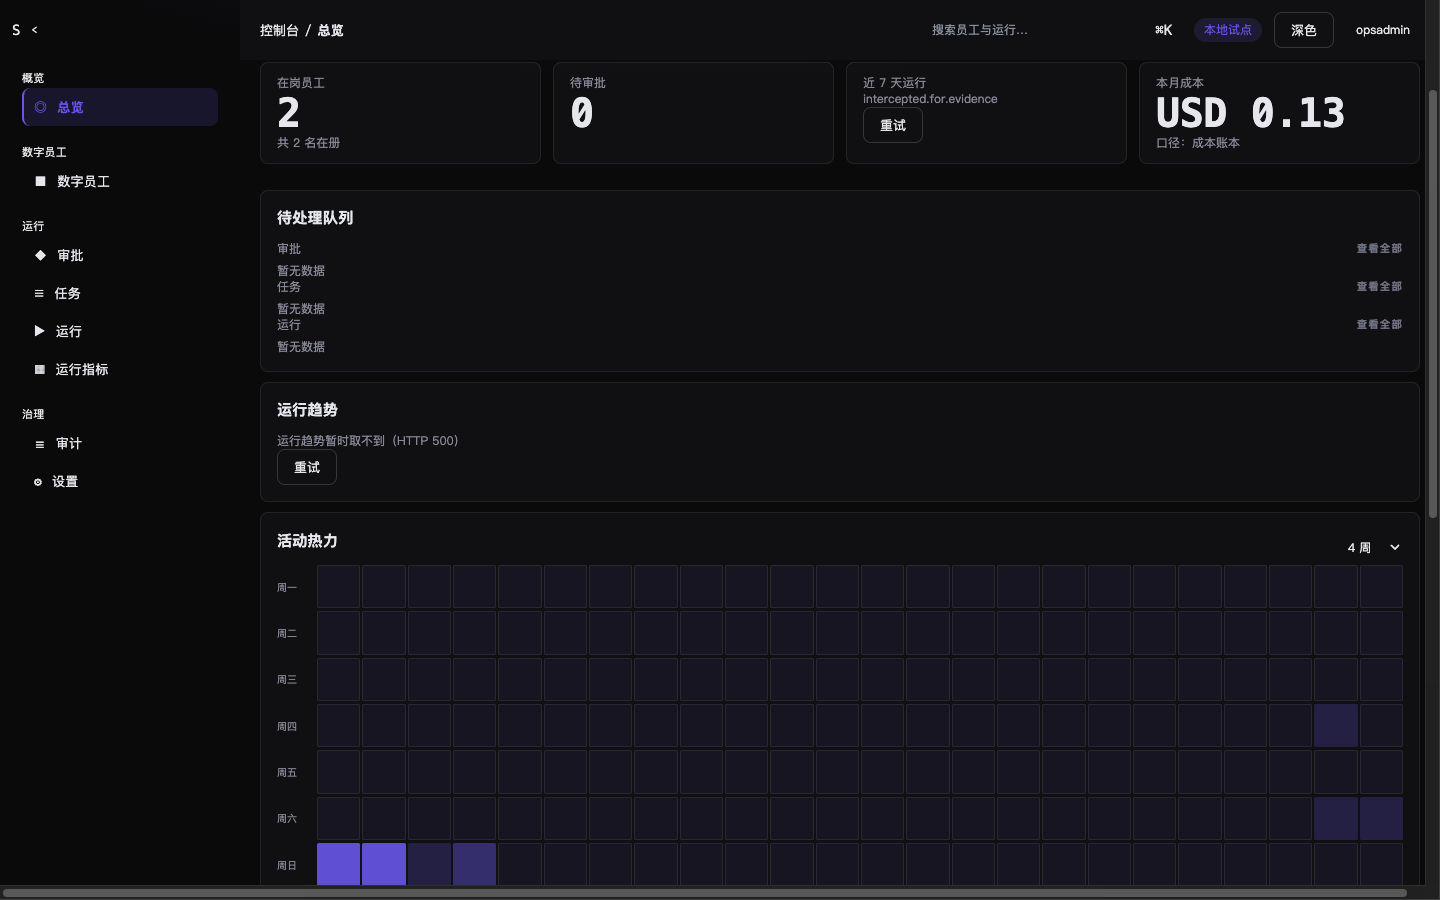
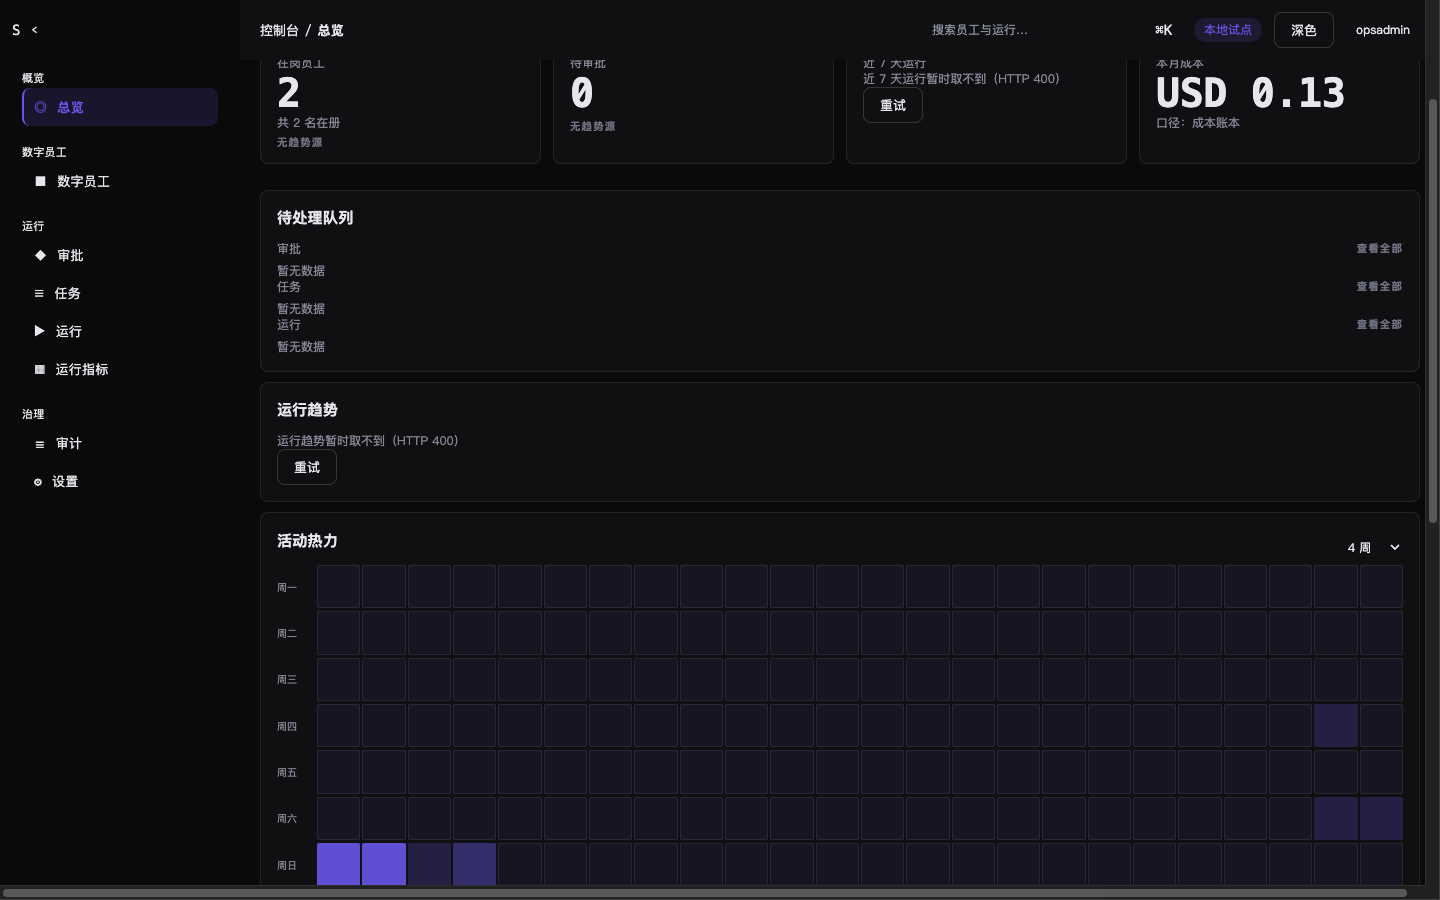
docs(validation): OV-01 G15 slice-6 evidence (localized error slots, injection proof 500/400, N1 note)
Five error slots now render t('agentConsole.v2.ov.blockUnavailable', {block, code: HTTP status}) only; semantic sentinels (agent-console.no-uid/no-employees) keep dedicated copy. grep 'code ??' and 'http-${' = 0 hits in both files.

Injection proof (dev 5399 -> real BFF 8092, opsadmin session):
- inj=500 code=run.stats_range_too_large -> KPI runs / trend / anomaly show localized text; injectedCodeShown=false, codeishOnErrors=[], retryCount=3; fullPage dark screenshot ov01-errstate-1440x900-dark.png (237292B, sips 1440x1823).
- inj=400 code=request.missing_filter -> same result at HTTP 400; viewport screenshot ov01-errstate-trend-1440x900-dark.png (74506B, sips 1440x900).
- unblock + click retry -> trend bars back (7), retryCount=0, runs KPI real value 14; N1 note '无趋势源' visible on onduty/pending KPI cards.

Gates at 01d34aa: lint exit 0; vitest -- src/pages/AgentConsoleV2 10 files / 114 passed (no regression); git diff --check 0. EVIDENCE.md appended as pure +15/0-; readout.txt carries l4wc-err1.out transcript. G13: all evidence from local dev 5399, not the 8182 served entry. No PASS verdict; r3 re-deploy belongs to L7, re-review to L6.

diff --git a/docs/validation/console/overview/EVIDENCE.md b/docs/validation/console/overview/EVIDENCE.md
@@ -119,3 +119,18 @@ opsadmin 真实登录 8182（CAPTCHA_LEN=4，口令零回显）；CDP `Emulation
 - 回归面不变：blockTotal=8、kpiCount=4、placeholderCount=0、anomaly 空态+扫描说明在、待处理队列三段诚实空态、本月成本与预算合并块（USD 0.13 + 配额条 1.2%/0.1%，分母 USD 10.00）。
 - 门禁（每块 commit 前复跑）：platform lint exit 0；`test -- src/pages/AgentConsoleV2` 10 files / 114 tests passed（旧 112 不回退）；`git diff --check` 0。
 - 过程：取证中途 opsadmin 会话曾被登出，已按既定登录腿自愈（口令零回显）。边界：本拍不动 8182/Caddy/BFF/受管服务，不扩功能，**不判 PASS**——交 L7 部署 + L6 复审。
+
+## OV-01 片6（G15 单点修复+N1）：错误态本地化（L6 r2 唯一阻断关闭）
+
+- 修法：OverviewPage.tsx 四处 KPI 错误槽（onduty/pending/runs/cost）与 OverviewBlocks.tsx 成本块错误行，统一改为 `t('agentConsole.v2.ov.blockUnavailable', { block: <本地化块名>, code: <HTTP status> })`；`code` 只作为参数进入三语文案「{{block}}暂时取不到（HTTP {{code}}）」，页面不再出现任何 `x.code` 或 a.b 形态机器码。语义哨兵保留专用文案：`agent-console.no-uid`→noteNoUid/queueNoUid、`agent-console.no-employees`→noteNoEmployees/noEmployeesNote；trend/heat 错误态与 anomaly 的 anomalyUnavailable 行本就本地化，未动。grep 复核两文件 `code ??` 与 `http-${` = 0 命中。
+- N1：在岗/待审批 KPI 卡 ok 分支各加一行 `kpiNoSpark`（zh「无趋势源」/ en "No trend source" / ja「トレンド元なし」，testid `agent-v2-ov-kpi-{onduty,pending}-nospark`），数据逻辑不变。
+- 测试：`OverviewErrors.test.tsx` 用例1 新增断言——注入 500 时 `run-stats` 原始码 `agent.http.500` 不得上屏：所有 `[data-testid$="-error"]` 可见文本不匹配 `/[a-z]+\.[a-z_]+/`，且 runs 错误文本含 `HTTP 500`；用例2 新增恢复真值断言（runs KPI 含 3）。targeted **10 files / 114 passed** 不回退；platform lint exit 0；`git diff --check` 0。
+- 现场注入复测（dev 5399 代理真实 BFF 8092，opsadmin 真实登录态，`Page.addScriptToEvaluateOnNewDocument` 包装 fetch，脚本 `l4wc-err1.sh`，原文见 `readout.txt` 末段）：
+  - 注入 500+`{"code":"run.stats_range_too_large"}`：`kpiRunsError=「近 7 天运行暂时取不到（HTTP 500）」`、`trendError=「运行趋势暂时取不到（HTTP 500）」`、`anomalyState=「异常数据暂时不可用」`；`injectedCodeShown=false`、`codeishOnErrors=[]`、`retryCount=3`，heat/cost 不受影响。
+  - 注入 400+`{"code":"request.missing_filter"}`：同文案换 HTTP 400，注入码同样 0 上屏。
+  - 解除注入+点块级重试：`trendBarsBack=true（7 柱）`、错误态消失、`retryCountNow=0`、runs KPI 恢复真值「近 7 天运行 14 其中失败 0 次」、spark 在；正常态两行 N1 文案实测=「无趋势源」。
+- 截图同名覆盖重拍（深色，CDP 1440×900）：`ov01-errstate-1440x900-dark.png` 237292B 1440×1823（fullPage，注入 500 错误态）；`ov01-errstate-trend-1440x900-dark.png` 74506B 1440×900（注入 400 时趋势卡视口）。
+- 复测命令：`corepack pnpm@9.15.9 -C src/frontend/platform lint`；`corepack pnpm@9.15.9 -C src/frontend/platform test -- src/pages/AgentConsoleV2`；注入取证 `bash $T/l4wc-err1.sh`。
+- 代码提交：`01d34aa` fix(console-v2): OV-01 G15 error slots localize BFF codes + N1 no-trend-source note（链 …→4a9e7b8→01d34aa）。
+- G13 口径：本片全部证据（DOM 读数与两张截图）来自本地 dev 5399 代理真实 BFF 8092 的 opsadmin 登录态，**非** 8182 served entry；8182 对账与重新部署归 L7。
+- 边界：本拍不动 BFF/契约/部署/受管服务；口令零回显。G15+N1 之外未扩任何功能。本节只交证据与实现，**不判 PASS**；G15 关闭与否交 L6 r3 复审。
